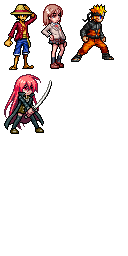
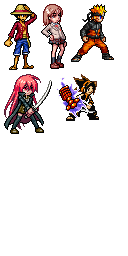
Added new character (yoh from shaman king). Corrected AndroidManifest.xml to specify OpenGL ES 2.0 needed.

Changed region(s): [[0.4375, 0.2812, 0.7812, 0.5]]

diff --git a/core/src/com/mangarush/ui/stages/LoadingStage.java b/core/src/com/mangarush/ui/stages/LoadingStage.java
@@ -71,14 +71,14 @@ public class LoadingStage extends Stage {
 
 		if (save.characters.get("luffy"))
 			count++;
+		if (save.characters.get("yoh"))
+			count++;
 
 		return count;
 	}
 
 	@Override
 	public void draw() {
-		// Check if done
-
 		// Draw actors
 		super.draw();
 
@@ -94,6 +94,9 @@ public class LoadingStage extends Stage {
 		progress = Game.GDXVars().assetManager.getProgress();
 		loadingBar.setProgress(progress);
 		loadingBar.setMessage((progress == 1) ? "Tap to continue" : "Textures ...");
+
+		// Check if after a resume new char unlocked : should place it elsewhere
+		selector.setCharactersCount(getCharactersCount());
 
 		super.act(delta);
 	}

diff --git a/core/src/com/mangarush/ui/actors/AtlasSelector.java b/core/src/com/mangarush/ui/actors/AtlasSelector.java
@@ -20,7 +20,7 @@ public class AtlasSelector extends Group {
 	private final Image[] contents;
 	private final TextButton leftButton, rightButton;
 	private int selectedIndex;
-	private final int charactersCount;
+	private int charactersCount;
 
 	public AtlasSelector(final TextureAtlas atlas, int charactersCount) {
 		// Load carrousel elements
@@ -114,5 +114,9 @@ public class AtlasSelector extends Group {
 
 	public int getSelectedIndex() {
 		return selectedIndex;
+	}
+
+	public void setCharactersCount(int charactersCount) {
+		this.charactersCount = charactersCount;
 	}
 }

diff --git a/android/src/com/mangarush/android/AndroidLauncher.java b/android/src/com/mangarush/android/AndroidLauncher.java
@@ -11,7 +11,6 @@ public class AndroidLauncher extends AndroidApplication {
 	protected void onCreate(Bundle savedInstanceState) {
 		super.onCreate(savedInstanceState);
 		AndroidApplicationConfiguration config = new AndroidApplicationConfiguration();
-		config.disableAudio = true;
 		config.hideStatusBar = true;
 		config.useImmersiveMode = true;
 		config.useAccelerometer = false;

diff --git a/core/src/com/mangarush/ui/stages/SurvivorStage.java b/core/src/com/mangarush/ui/stages/SurvivorStage.java
@@ -133,6 +133,9 @@ public class SurvivorStage extends Stage {
 		// Check if luffy is unlocked
 		if (!save.characters.get("luffy"))
 			addAction(new CharacterUnlockAction(this, "luffy", UnlockScores.LUFFY));
+		// Check if yoh is unlocked
+		if (!save.characters.get("yoh"))
+			addAction(new CharacterUnlockAction(this, "yoh", UnlockScores.YOH));
 	}
 
 	private void initMap() {

diff --git a/core/src/com/mangarush/utils/SaveData.java b/core/src/com/mangarush/utils/SaveData.java
@@ -24,6 +24,7 @@ public class SaveData {
 
 		characters = new HashMap<>(10);
 		characters.put("luffy", prefs.getBoolean("luffy", false));
+		characters.put("yoh", prefs.getBoolean("yoh", false));
 	}
 
 	/** Save datas (flush Preferences) */

diff --git a/core/src/com/mangarush/constants/UnlockScores.java b/core/src/com/mangarush/constants/UnlockScores.java
@@ -3,4 +3,5 @@ package com.mangarush.constants;
 /** Constants to define scores that unlock characters */
 public class UnlockScores {
 	public static final int LUFFY = 100;
+	public static final int YOH = 200;
 }

diff --git a/core/src/com/mangarush/constants/Paths.java b/core/src/com/mangarush/constants/Paths.java
@@ -45,6 +45,7 @@ public abstract class Paths {
 			charactersDir + "misaka.txt",
 			charactersDir + "shana.txt",
 			charactersDir + "luffy.txt",
+			charactersDir + "yoh.txt"
 	};
 
 	/** Player jump sound */
